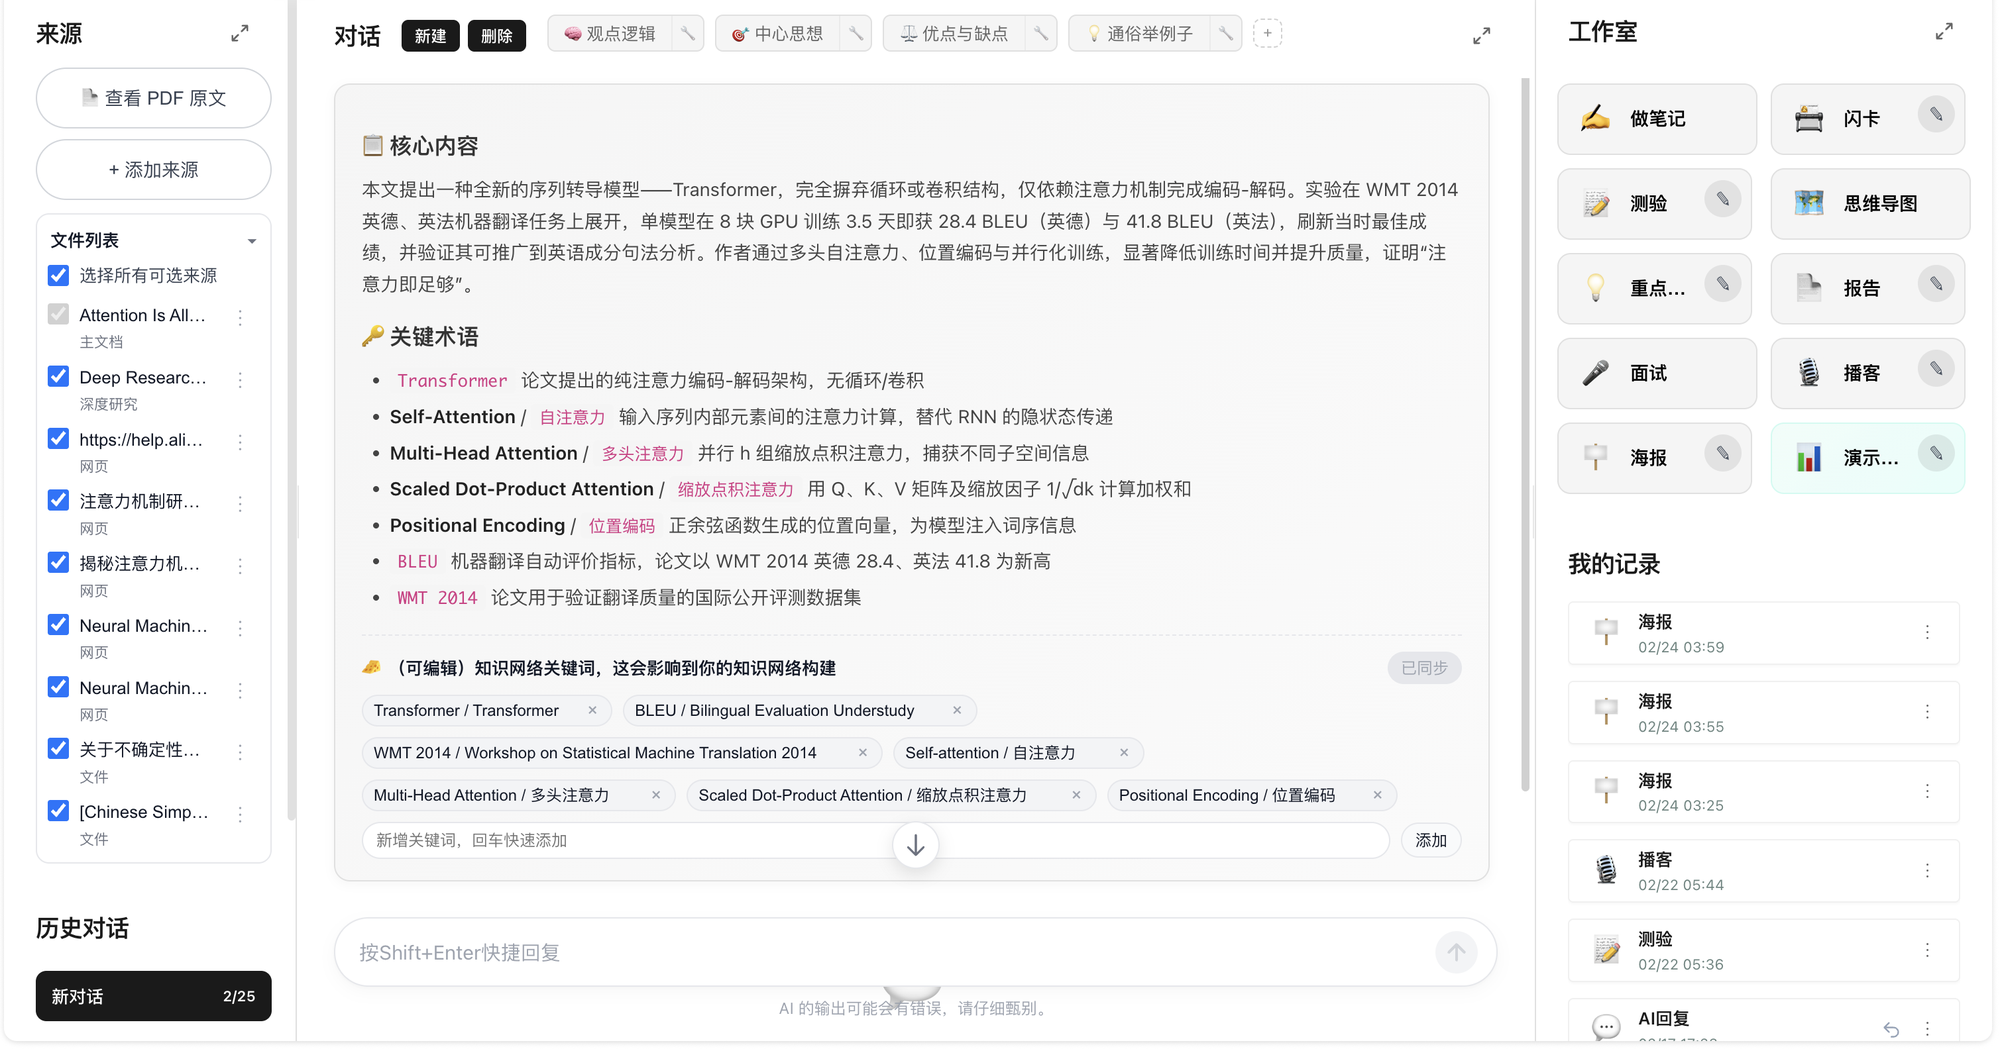
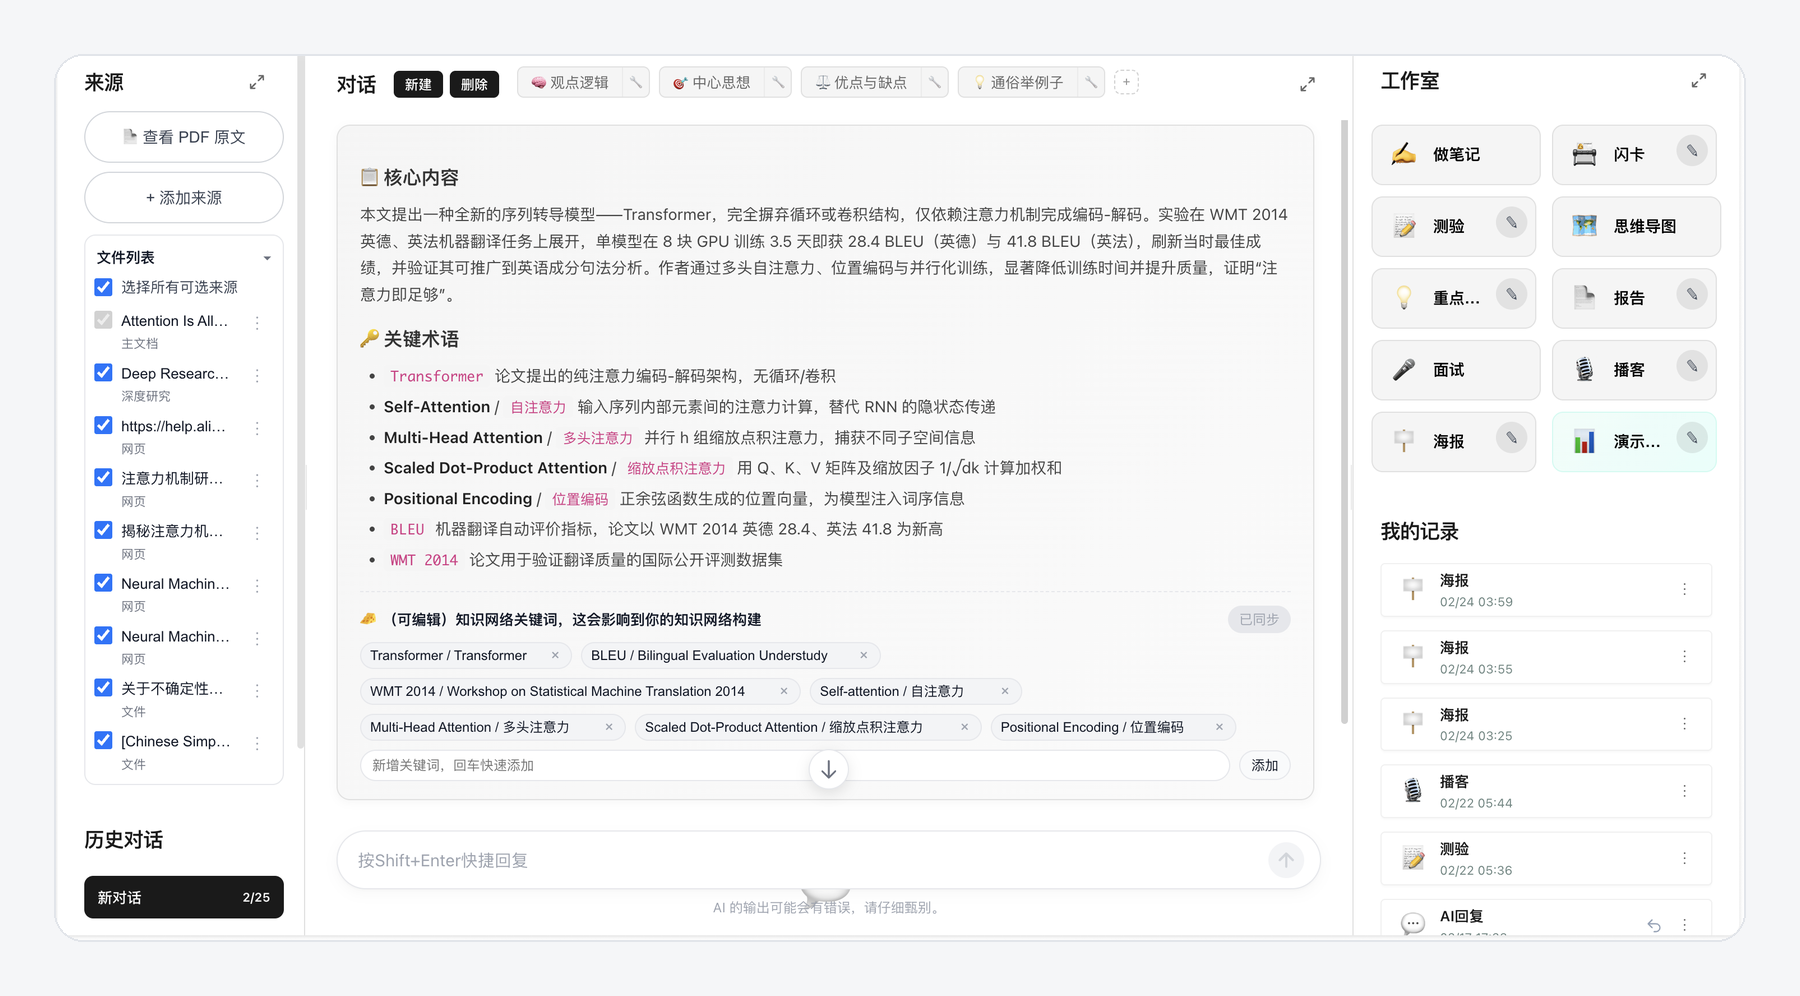
fix

diff --git a/README.en.md b/README.en.md
@@ -47,13 +47,25 @@ You can test the connection for each model. The same page shows which features w
 
 ## Screenshots
 
-| Knowledge network | Writing studio |
-|---|---|
-| ![Knowledge network](frontend/public/landing/feature-3.png) | ![Writing studio](frontend/public/landing/feature-3.5.png) |
-| **Quiz** | **Flashcards** |
-| ![Quiz](frontend/public/landing/feature-4.1.png) | ![Flashcards](frontend/public/landing/feature-4.2.png) |
-| **Paper to slides** | **Academic poster** |
-| ![Paper to slides](frontend/public/landing/feature-7.2.png) | ![Academic poster](frontend/public/landing/feature-6.1.png) |
+**Knowledge network.** Terms from all your documents in one graph.
+
+![Knowledge network](docs/screenshots/knowledge-network.png)
+
+**Writing studio.** Select a passage, let the AI revise it, and keep or drop each change.
+
+![Writing studio](docs/screenshots/writing-studio.png)
+
+**Quiz and flashcards**
+
+![Quiz and flashcards](docs/screenshots/study-tools.png)
+
+**Mind map**
+
+![Mind map](docs/screenshots/mindmap.png)
+
+**Academic poster.** Needs an image-generation key and an optional package.
+
+![Academic poster](docs/screenshots/poster.png)
 
 ## Optional packages
 

diff --git a/README.md b/README.md
@@ -47,13 +47,25 @@ python run.py
 
 ## 截图
 
-| 知识网络 | 创作空间 |
-|---|---|
-| ![知识网络](frontend/public/landing/feature-3.png) | ![创作空间](frontend/public/landing/feature-3.5.png) |
-| **测验** | **闪卡** |
-| ![测验](frontend/public/landing/feature-4.1.png) | ![闪卡](frontend/public/landing/feature-4.2.png) |
-| **论文转 PPT** | **学术海报** |
-| ![论文转 PPT](frontend/public/landing/feature-7.2.png) | ![学术海报](frontend/public/landing/feature-6.1.png) |
+**知识网络**：所有文档里的术语连成一张图。
+
+![知识网络](docs/screenshots/knowledge-network.png)
+
+**创作空间**：选中段落让 AI 修改，逐段决定采纳还是放弃。
+
+![创作空间](docs/screenshots/writing-studio.png)
+
+**测验与闪卡**
+
+![测验与闪卡](docs/screenshots/study-tools.png)
+
+**思维导图**
+
+![思维导图](docs/screenshots/mindmap.png)
+
+**学术海报**：需要图像生成 Key 和可选依赖。
+
+![学术海报](docs/screenshots/poster.png)
 
 ## 可选依赖
 
